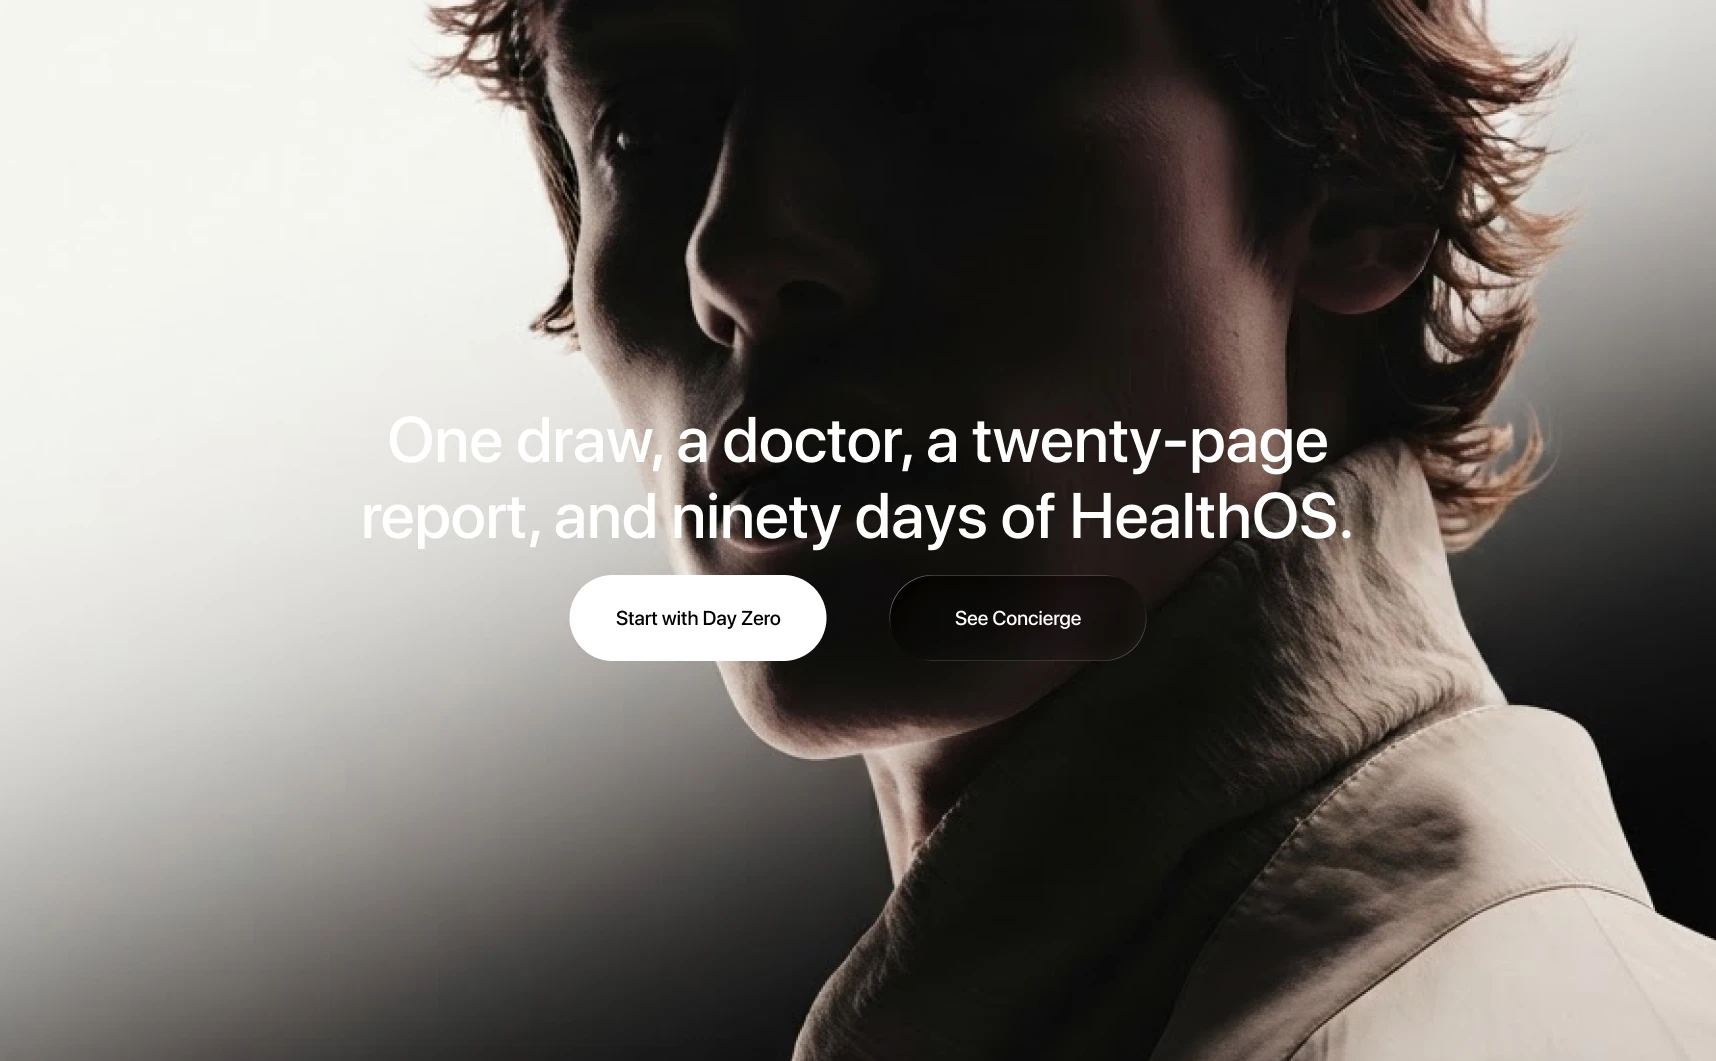
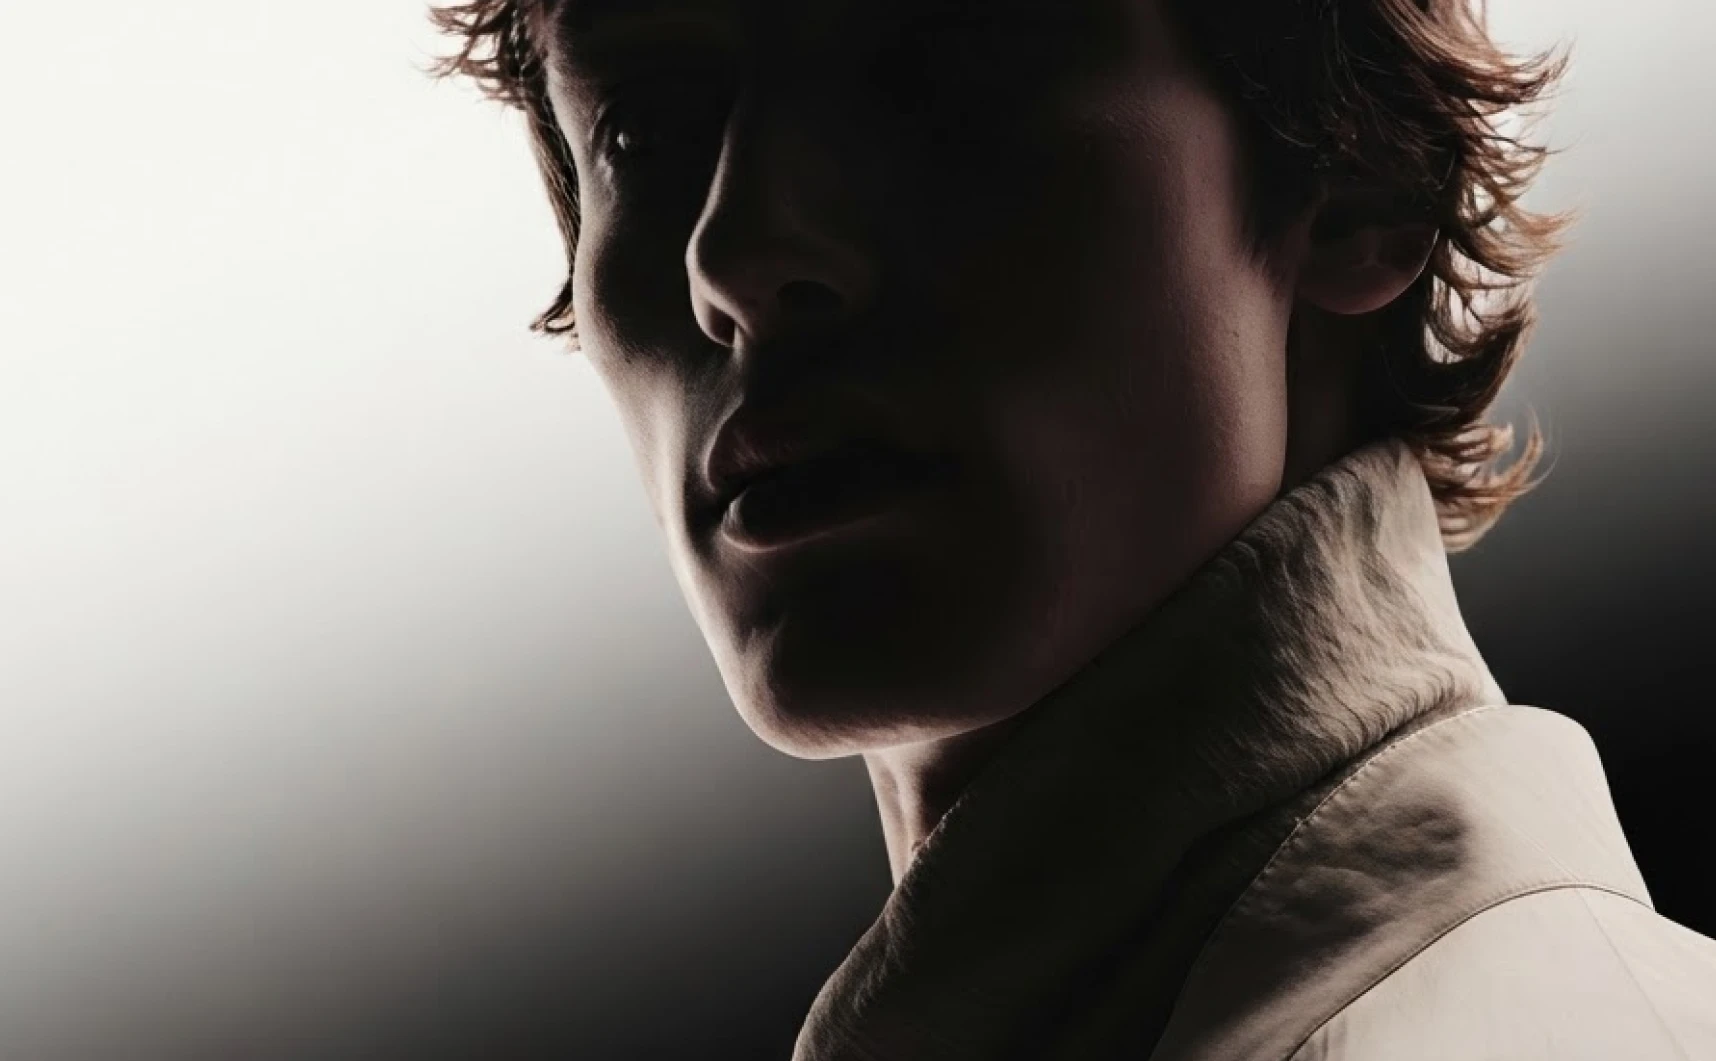
Closing section: clean photo with live centred text and small buttons

Changed region(s): [[0.2162, 0.4043, 0.803, 0.6221], [0.5559, 0.5598, 0.6177, 0.591]]

diff --git a/what-we-test.html b/what-we-test.html
@@ -318,6 +318,18 @@
     #hiw { padding: clamp(110px, 10vw, 170px) 0 clamp(80px, 8vw, 130px); }
     #pn { padding: clamp(70px, 7vw, 110px) 0 clamp(100px, 10vw, 170px); }
   }
+
+  /* ---------- the closing photo, with live text ---------- */
+  .cta2 { position: relative; height: min(52vw, 86vh); min-height: 460px; overflow: hidden; background: #000; }
+  .cta2 img { position: absolute; inset: 0; width: 100%; height: 100%; object-fit: cover; object-position: 50% 38%; display: block; }
+  .cta2-shade { position: absolute; inset: 0; background: radial-gradient(ellipse 55% 45% at 50% 55%, rgba(0,0,0,.28), rgba(0,0,0,0) 70%); }
+  .cta2-box { position: absolute; left: 50%; top: 56%; transform: translate(-50%, -50%); width: min(760px, 88vw); text-align: center; }
+  .cta2-box h2 { font-family: var(--sans); font-weight: 400; font-size: clamp(1.35rem, 1rem + 1.2vw, 2.15rem); line-height: 1.2; letter-spacing: -0.02em; color: #fff; text-shadow: 0 2px 24px rgba(0,0,0,.35); }
+  .cta2-btns { margin-top: 26px; display: flex; justify-content: center; gap: 12px; flex-wrap: wrap; }
+  .cb { display: inline-flex; align-items: center; justify-content: center; height: 42px; padding: 0 22px; border-radius: 999px; font-size: .875rem; font-weight: 500; text-decoration: none; transition: transform .2s, background .2s, border-color .2s; }
+  .cb.a { background: #fff; color: #000; } .cb.a:hover { transform: translateY(-1px); background: #f0f0f0; }
+  .cb.b { background: rgba(10,10,10,.55); color: #fff; border: 1px solid rgba(255,255,255,.2); -webkit-backdrop-filter: blur(8px); backdrop-filter: blur(8px); } .cb.b:hover { border-color: rgba(255,255,255,.45); }
+  @media (max-width: 900px) { .cta2 { height: 70vh; } .cta2-box { top: 58%; } }
 </style>
 </head>
 <body>
@@ -395,12 +407,14 @@
 </section>
 
 <section id="cta" aria-label="Start with Day Zero">
-  <div class="cta-clip"><div class="cta-in">
-    <img src="assets/cta.webp" alt="A young man in profile, half in shadow, with the line: one draw, a doctor, a twenty-page report, and ninety days of HealthOS.">
-    <h2>One draw, a doctor, a twenty-page report, and ninety days of HealthOS.</h2>
-    <a class="a" href="index.html#steps" aria-label="Start with Day Zero"></a>
-    <a class="b" href="#" aria-label="See Concierge"></a>
-  </div></div>
+  <div class="cta2">
+    <img src="assets/cta.webp" alt="" loading="lazy">
+    <div class="cta2-shade"></div>
+    <div class="cta2-box">
+      <h2>One draw, a doctor, a twenty-page report, and ninety days of HealthOS.</h2>
+      <div class="cta2-btns"><a class="cb a" href="index.html#steps">Start with Day Zero</a><a class="cb b" href="#">See Concierge</a></div>
+    </div>
+  </div>
 </section>
 
 <section id="closing">
@@ -419,8 +433,8 @@
 </footer>
 <script src="panels-data.js"></script>
 <script src="biomarkers-data.js"></script>
-<script src="david-model.js?v=mw2ju0ch"></script>
-<script src="organs-model.js?v=mw2ju0ch"></script>
+<script src="david-model.js?v=mw2k2fmj"></script>
+<script src="organs-model.js?v=mw2k2fmj"></script>
 <script>
 (() => {
   const cv = document.getElementById('xray'), ctx = cv.getContext('2d'), reduce = matchMedia('(prefers-reduced-motion: reduce)').matches;

diff --git a/tools/wt-template.html b/tools/wt-template.html
@@ -318,6 +318,18 @@
     #hiw { padding: clamp(110px, 10vw, 170px) 0 clamp(80px, 8vw, 130px); }
     #pn { padding: clamp(70px, 7vw, 110px) 0 clamp(100px, 10vw, 170px); }
   }
+
+  /* ---------- the closing photo, with live text ---------- */
+  .cta2 { position: relative; height: min(52vw, 86vh); min-height: 460px; overflow: hidden; background: #000; }
+  .cta2 img { position: absolute; inset: 0; width: 100%; height: 100%; object-fit: cover; object-position: 50% 38%; display: block; }
+  .cta2-shade { position: absolute; inset: 0; background: radial-gradient(ellipse 55% 45% at 50% 55%, rgba(0,0,0,.28), rgba(0,0,0,0) 70%); }
+  .cta2-box { position: absolute; left: 50%; top: 56%; transform: translate(-50%, -50%); width: min(760px, 88vw); text-align: center; }
+  .cta2-box h2 { font-family: var(--sans); font-weight: 400; font-size: clamp(1.35rem, 1rem + 1.2vw, 2.15rem); line-height: 1.2; letter-spacing: -0.02em; color: #fff; text-shadow: 0 2px 24px rgba(0,0,0,.35); }
+  .cta2-btns { margin-top: 26px; display: flex; justify-content: center; gap: 12px; flex-wrap: wrap; }
+  .cb { display: inline-flex; align-items: center; justify-content: center; height: 42px; padding: 0 22px; border-radius: 999px; font-size: .875rem; font-weight: 500; text-decoration: none; transition: transform .2s, background .2s, border-color .2s; }
+  .cb.a { background: #fff; color: #000; } .cb.a:hover { transform: translateY(-1px); background: #f0f0f0; }
+  .cb.b { background: rgba(10,10,10,.55); color: #fff; border: 1px solid rgba(255,255,255,.2); -webkit-backdrop-filter: blur(8px); backdrop-filter: blur(8px); } .cb.b:hover { border-color: rgba(255,255,255,.45); }
+  @media (max-width: 900px) { .cta2 { height: 70vh; } .cta2-box { top: 58%; } }
 </style>
 </head>
 <body>
@@ -395,12 +407,14 @@
 </section>
 
 <section id="cta" aria-label="Start with Day Zero">
-  <div class="cta-clip"><div class="cta-in">
-    <img src="assets/cta.webp" alt="A young man in profile, half in shadow, with the line: one draw, a doctor, a twenty-page report, and ninety days of HealthOS.">
-    <h2>One draw, a doctor, a twenty-page report, and ninety days of HealthOS.</h2>
-    <a class="a" href="index.html#steps" aria-label="Start with Day Zero"></a>
-    <a class="b" href="#" aria-label="See Concierge"></a>
-  </div></div>
+  <div class="cta2">
+    <img src="assets/cta.webp" alt="" loading="lazy">
+    <div class="cta2-shade"></div>
+    <div class="cta2-box">
+      <h2>One draw, a doctor, a twenty-page report, and ninety days of HealthOS.</h2>
+      <div class="cta2-btns"><a class="cb a" href="index.html#steps">Start with Day Zero</a><a class="cb b" href="#">See Concierge</a></div>
+    </div>
+  </div>
 </section>
 
 <section id="closing">

diff --git a/tools/cta.css b/tools/cta.css
@@ -1,10 +1,12 @@
 
-  /* ---------- the closing call to action: the photograph with its line and two buttons ---------- */
-  #cta { position: relative; background: #000; }
-  .cta-in { position: relative; width: 100%; aspect-ratio: 1716 / 1061; overflow: hidden; }
-  .cta-in img { position: absolute; inset: 0; width: 100%; height: 100%; object-fit: cover; display: block; }
-  .cta-in h2 { position: absolute; width: 1px; height: 1px; overflow: hidden; clip: rect(0 0 0 0); white-space: nowrap; }
-  .cta-in a { position: absolute; top: 54.2%; height: 8.1%; width: 14.9%; border-radius: 99px; outline-offset: 3px; }
-  .cta-in a.a { left: 33.2%; } .cta-in a.b { left: 51.9%; }
-  .cta-in a:hover { background: rgba(255,255,255,.07); } .cta-in a.a:hover { background: rgba(0,0,0,.06); }
-  .cta-in a:focus-visible { outline: 2px solid #fff; }
+  /* ---------- the closing photo, with live text ---------- */
+  .cta2 { position: relative; height: min(52vw, 86vh); min-height: 460px; overflow: hidden; background: #000; }
+  .cta2 img { position: absolute; inset: 0; width: 100%; height: 100%; object-fit: cover; object-position: 50% 38%; display: block; }
+  .cta2-shade { position: absolute; inset: 0; background: radial-gradient(ellipse 55% 45% at 50% 55%, rgba(0,0,0,.28), rgba(0,0,0,0) 70%); }
+  .cta2-box { position: absolute; left: 50%; top: 56%; transform: translate(-50%, -50%); width: min(760px, 88vw); text-align: center; }
+  .cta2-box h2 { font-family: var(--sans); font-weight: 400; font-size: clamp(1.35rem, 1rem + 1.2vw, 2.15rem); line-height: 1.2; letter-spacing: -0.02em; color: #fff; text-shadow: 0 2px 24px rgba(0,0,0,.35); }
+  .cta2-btns { margin-top: 26px; display: flex; justify-content: center; gap: 12px; flex-wrap: wrap; }
+  .cb { display: inline-flex; align-items: center; justify-content: center; height: 42px; padding: 0 22px; border-radius: 999px; font-size: .875rem; font-weight: 500; text-decoration: none; transition: transform .2s, background .2s, border-color .2s; }
+  .cb.a { background: #fff; color: #000; } .cb.a:hover { transform: translateY(-1px); background: #f0f0f0; }
+  .cb.b { background: rgba(10,10,10,.55); color: #fff; border: 1px solid rgba(255,255,255,.2); -webkit-backdrop-filter: blur(8px); backdrop-filter: blur(8px); } .cb.b:hover { border-color: rgba(255,255,255,.45); }
+  @media (max-width: 900px) { .cta2 { height: 70vh; } .cta2-box { top: 58%; } }

diff --git a/tools/cta.html b/tools/cta.html
@@ -1,9 +1,11 @@
 
 <section id="cta" aria-label="Start with Day Zero">
-  <div class="cta-clip"><div class="cta-in">
-    <img src="assets/cta.webp" alt="A young man in profile, half in shadow, with the line: one draw, a doctor, a twenty-page report, and ninety days of HealthOS.">
-    <h2>One draw, a doctor, a twenty-page report, and ninety days of HealthOS.</h2>
-    <a class="a" href="index.html#steps" aria-label="Start with Day Zero"></a>
-    <a class="b" href="#" aria-label="See Concierge"></a>
-  </div></div>
+  <div class="cta2">
+    <img src="assets/cta.webp" alt="" loading="lazy">
+    <div class="cta2-shade"></div>
+    <div class="cta2-box">
+      <h2>One draw, a doctor, a twenty-page report, and ninety days of HealthOS.</h2>
+      <div class="cta2-btns"><a class="cb a" href="index.html#steps">Start with Day Zero</a><a class="cb b" href="#">See Concierge</a></div>
+    </div>
+  </div>
 </section>
